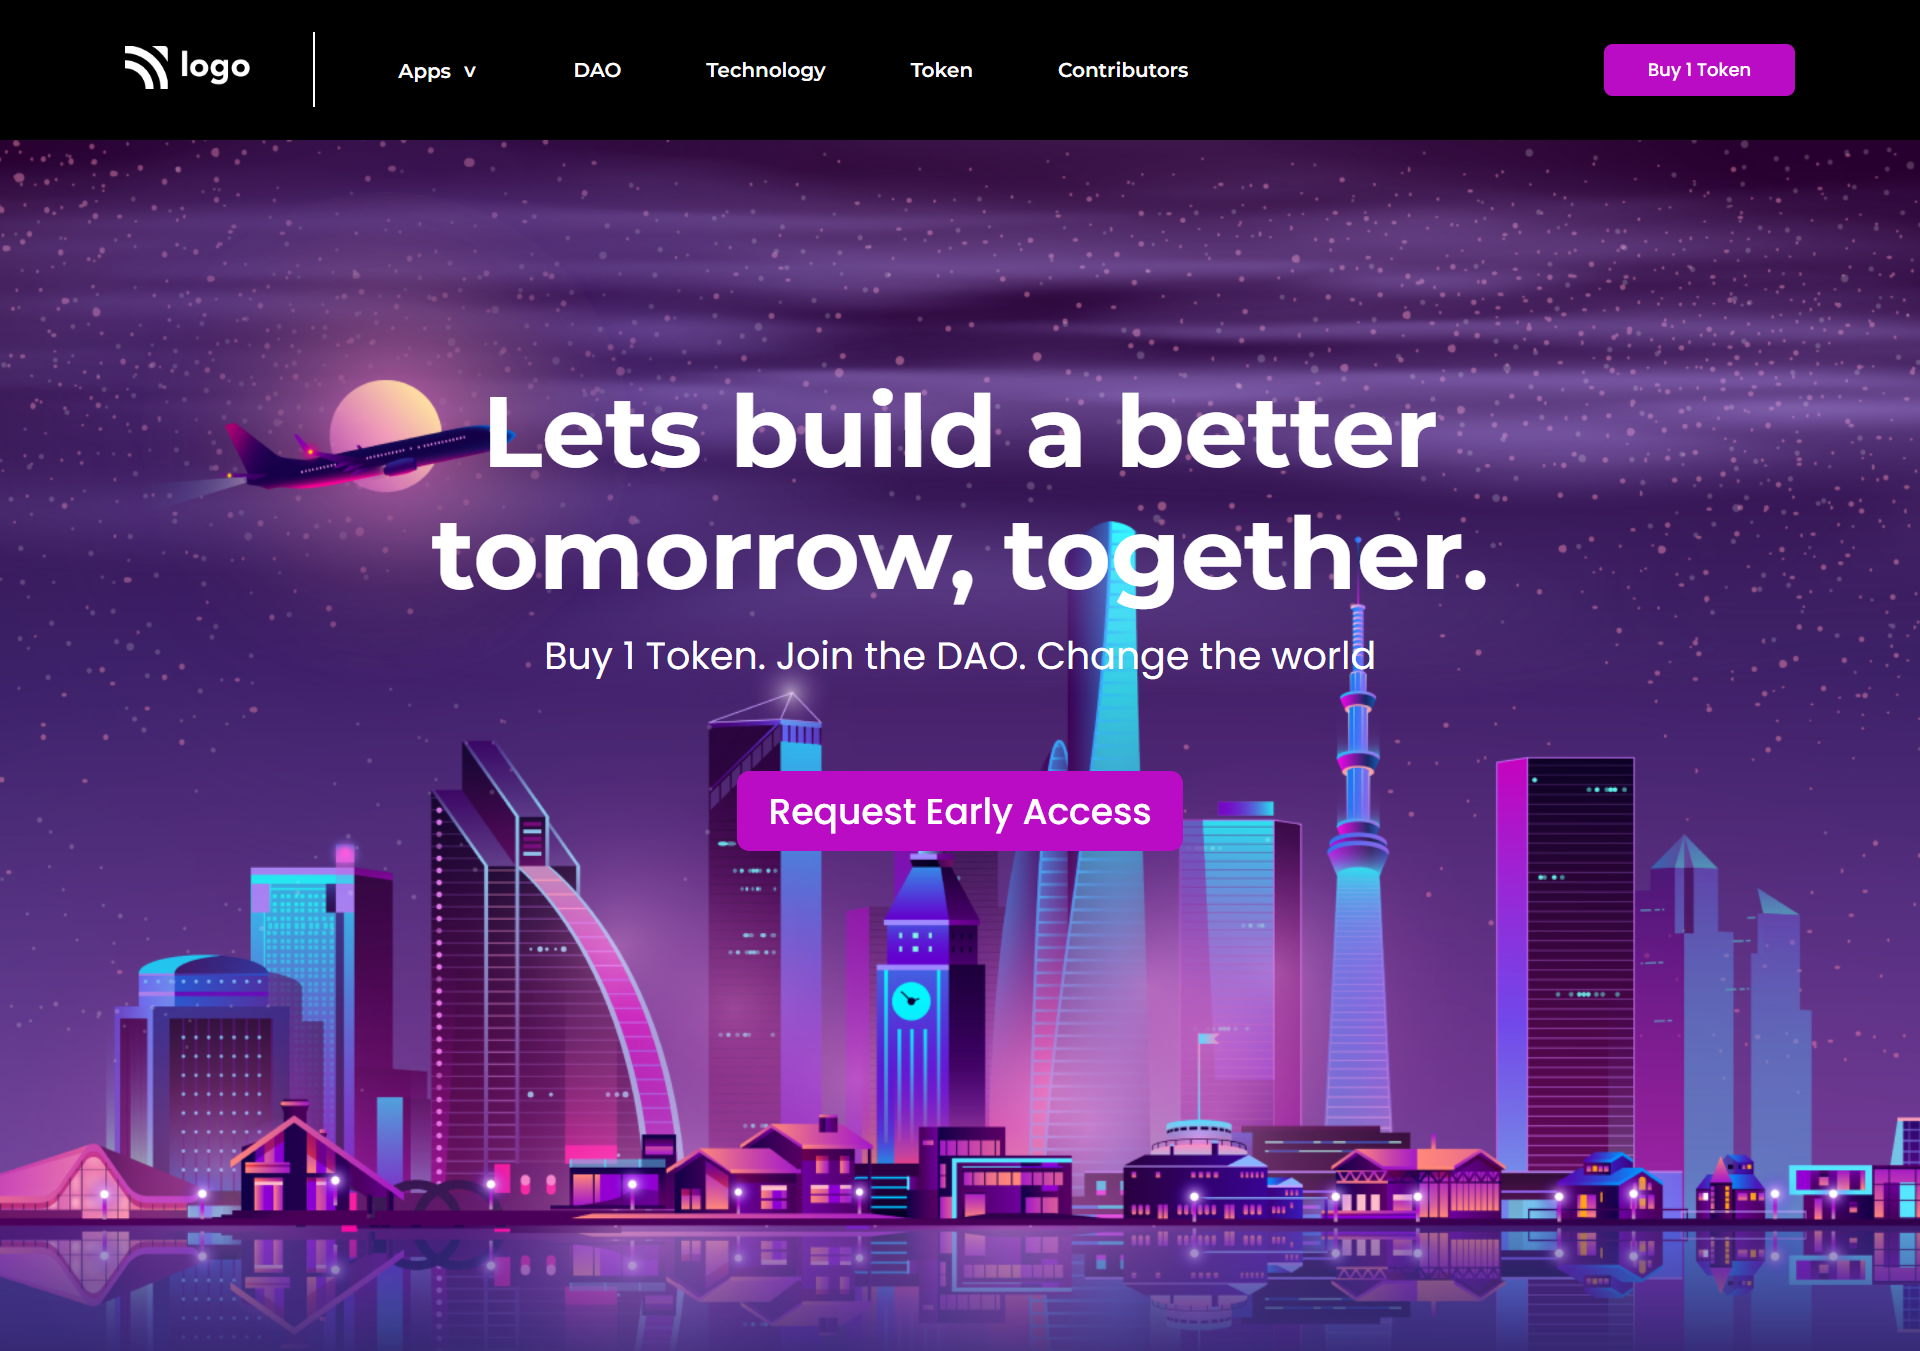
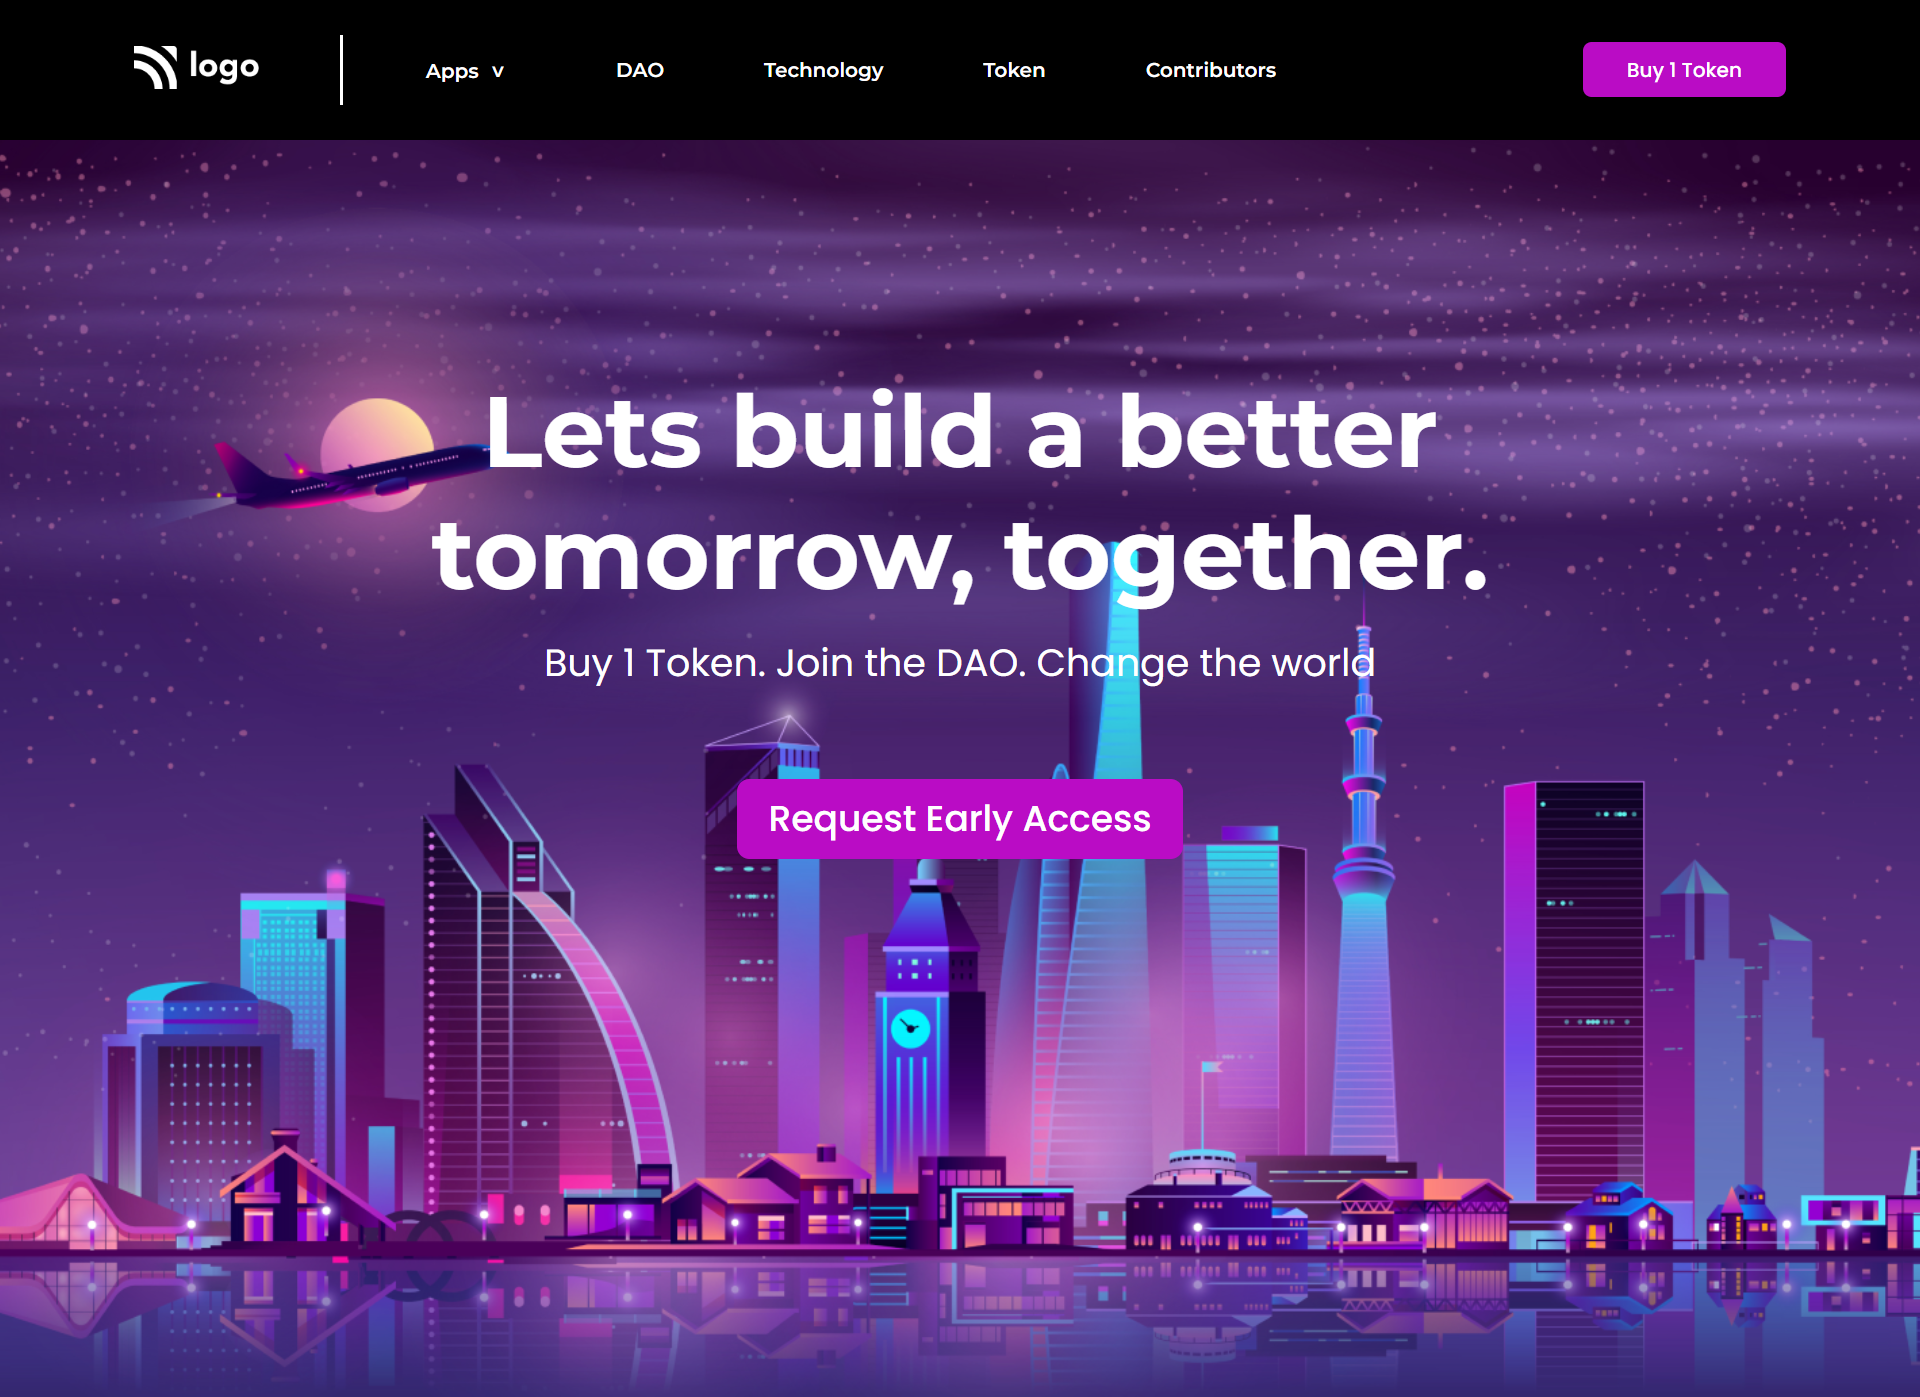
Modified CSS and Output image

diff --git a/style.css b/style.css
@@ -6,7 +6,7 @@
 
 body {
 	width: 100%;
-	min-height: 100vh;
+	height: 150vh;
 	background-color: #000000;
 	color: #ffffff;
 }
@@ -89,7 +89,7 @@ body {
 	background-position: center;
 	background-size: cover;
 	width: 100%;
-	height: 130vh;
+	height: 135vh;
 }
 
 .hero-heading {

diff --git a/README.md b/README.md
@@ -11,4 +11,4 @@ This is the Project 1 of Full Stack JavaScript Bootcamp 2.0 by iNeuron.
 
 ### Output:
 
-![seo-master-output](crypto-market-webpage)
+![crypto-market-output](crypto-market-output.png)
